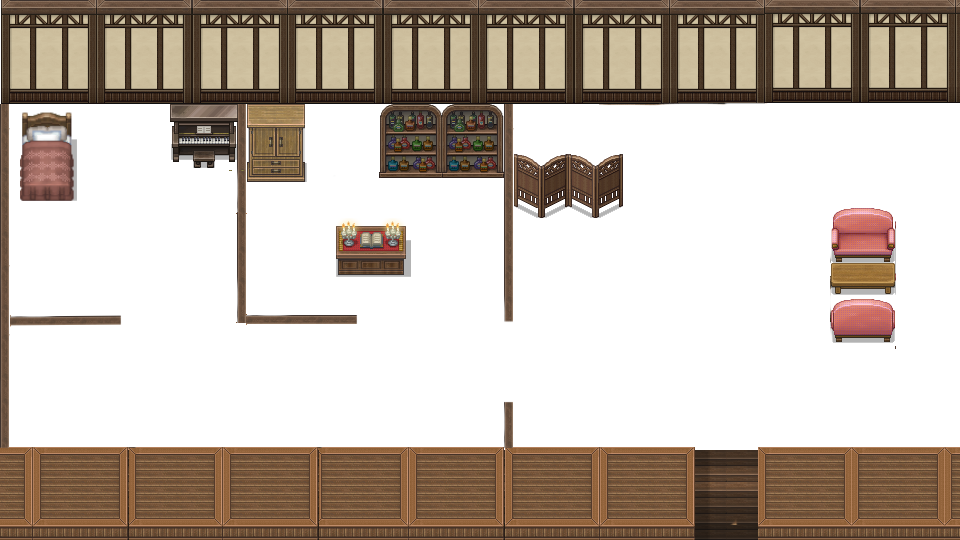
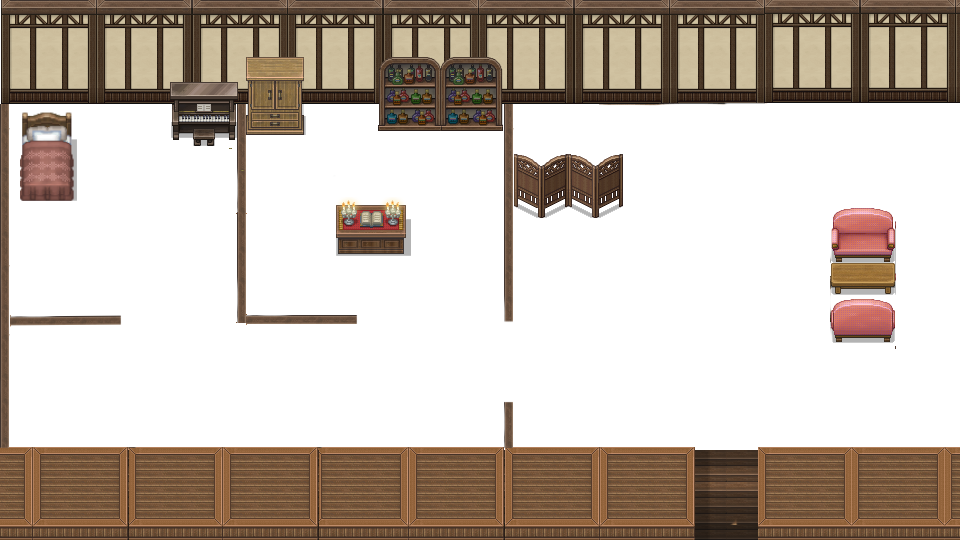
field0

Changed region(s): [[0.3438, 0.0889, 0.5312, 0.5333], [0.1562, 0.0889, 0.3438, 0.3556]]

diff --git a/database.js b/database.js
@@ -4,7 +4,7 @@
 const walkCol = [ //歩ける色のリスト 全フィールド共通
     [0,0,0]
 ]
-const homposx=100,homposy=100,homposworld=0;
+const homposx=90,homposy=130,homposworld=0;
 const fieldbackdata=[ //フィールドの背景の長方形データをすべて格納（主に歩ける部分）
     [["fieldbackobj0",0,0,960,540]],
     [["rgba(102,255,255,1)",0,0,960,540]],
@@ -31,16 +31,16 @@ const fieldenemyDataSet=[ //出会う敵の確率 [Num,odds]の形で格納 odds
     []
 ]
 const fieldwarpobj=[
-    [[660,500,40,10,1,40,30]],//フィールドのワープ場所のデータ　[x,y,width,height,jmpWorld,jmpx,jmpy]
-    [[0,0,20,540,0,920,30]]
+    [[693,436,64,14,1,40,30]],//フィールドのワープ場所のデータ　[x,y,width,height,jmpWorld,jmpx,jmpy]
+    [[0,0,20,500,0,920,30]]
 ]
 const eventobj=[
-    [[800,800,50,50,4,-1,3],[100,30,50,50,2],[170,30,50,50,3,0]],//フィールドのイベント場所のデータ　[x,y,width,height,eventnum,(shopnum,move Item Num),はじき出される方向(左右上下の順)]
+    [[339,186,70,70,2],[378,128,126,10,1]],//フィールドのイベント場所のデータ　[x,y,width,height,eventnum,(shopnum,move Item Num),はじき出される方向(左右上下の順)]
     []
 ]
 //eventnum- - - 1 マイピク整理　2 マイピク生み出す 3　お店　4 動けない
 const itemobj=[
-    [[30,120,10,10,12,1],[30,180,10,10,10,1],[30,220,10,10,13,1]],//アイテムの場所のデータ　[x,y,width,height,itemnum,stock(通常は1を指定)]
+    [],//アイテムの場所のデータ　[x,y,width,height,itemnum,stock(通常は1を指定)]
     []
 ]
 

diff --git a/field.js b/field.js
@@ -133,6 +133,7 @@ function procreateProcess(){ //卵の孵化処理
     );
 }
 function clickEveDraw(x,y){ //クリックイベント
+    if (debugMode==3) console.log(x,y);
     if (mode==1 && eventWindowKind==2 && eventWindowAni && eventProcreateStep==1){ //マイピクドロー中のみ反応
         if (inDrawField && drawMypicTempObj.length <15){ //ドローフィールドの中なら
             if (!drawMypicStatus){
@@ -184,9 +185,6 @@ function clickEveDraw(x,y){ //クリックイベント
     }
 }
 function moveEveDraw(x,y){ //マウスのムーブイベント
-    if (debugMode==3){
-       console.log(x,y);
-    }
     if (mode==1 && eventWindowKind==2 && eventWindowAni && eventProcreateStep==1){ //マイピクドロー中のみ反応
         drawFieldX = (x-(width/2-135))/270*100;
         drawFieldY=(y-(height/2-110))/270*100;
